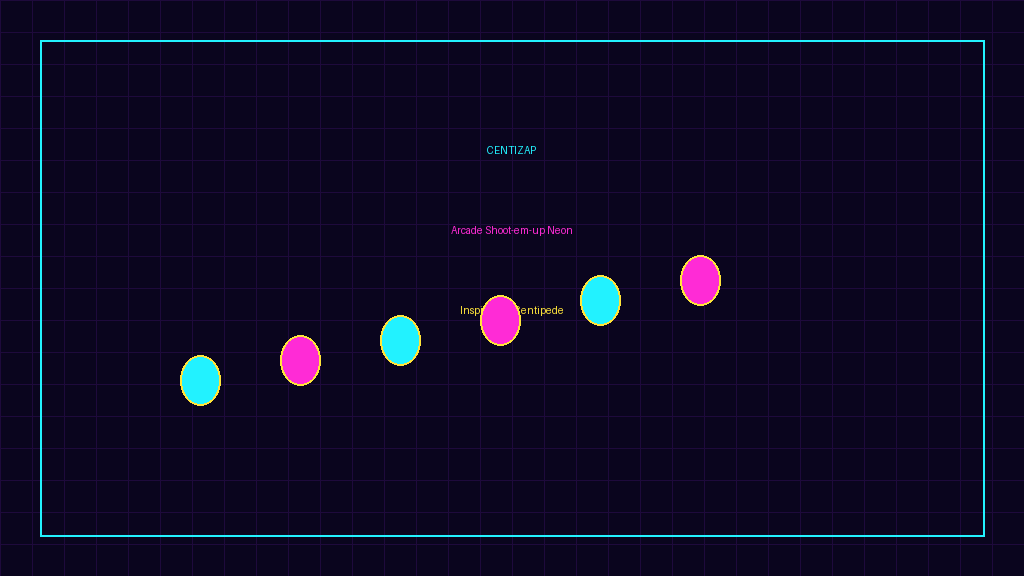
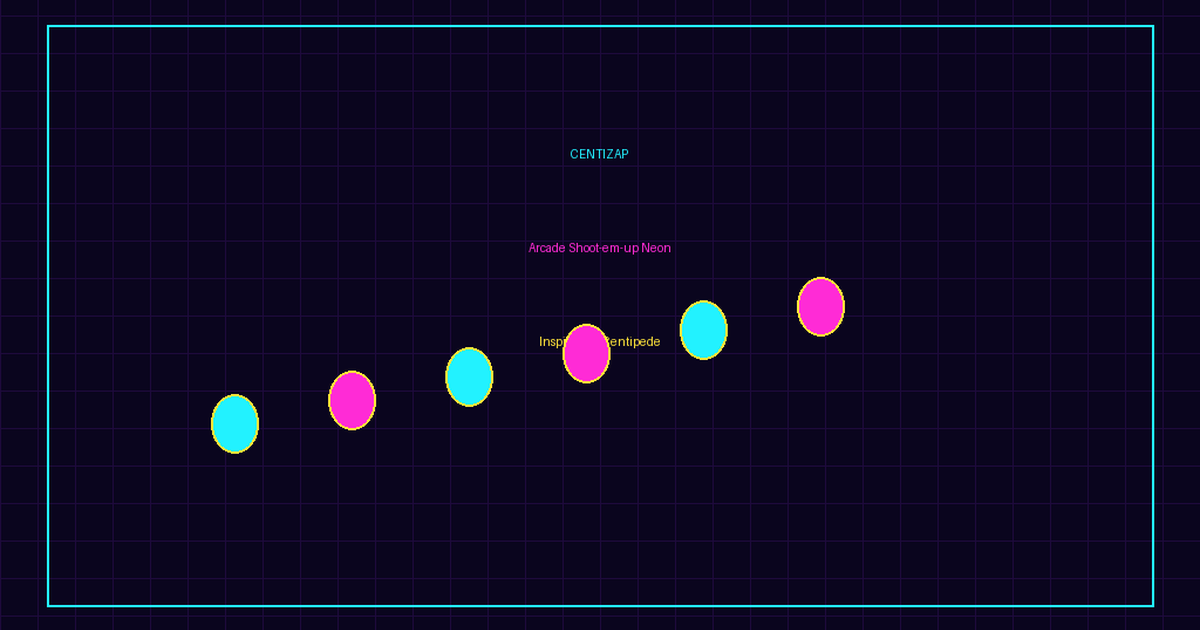
Open Graph : image 1200 x 630 et metadonnees completes

diff --git a/index.html b/index.html
@@ -10,13 +10,17 @@
     <meta property="og:type" content="website" />
     <meta property="og:title" content="Centizap — Arcade shoot-em-up néon" />
     <meta property="og:description" content="Détruis le centipede dans ce shoot-em-up arcade néon. 5 thèmes, power-ups, combos." />
-    <meta property="og:image" content="https://games.hylst.fr/centizap/og-image.png" />
+    <meta property="og:image" content="https://games.hylst.fr/centizap/og-image.png?v=2" />
+    <meta property="og:image:type" content="image/png" />
+    <meta property="og:image:width" content="1200" />
+    <meta property="og:image:height" content="630" />
+    <meta property="og:image:alt" content="Centizap" />
     <meta property="og:url" content="https://games.hylst.fr/centizap/" />
     <meta property="og:site_name" content="Hylst.Games" />
     <meta name="twitter:card" content="summary_large_image" />
     <meta name="twitter:title" content="Centizap — Arcade shoot-em-up néon" />
     <meta name="twitter:description" content="Détruis le centipede dans ce shoot-em-up arcade néon." />
-    <meta name="twitter:image" content="https://games.hylst.fr/centizap/og-image.png" />
+    <meta name="twitter:image" content="https://games.hylst.fr/centizap/og-image.png?v=2" />
     <meta name="robots" content="index, follow" />
     <link rel="canonical" href="https://games.hylst.fr/centizap/" />
     <link rel="icon" type="image/webp" href="favicon.webp" />
